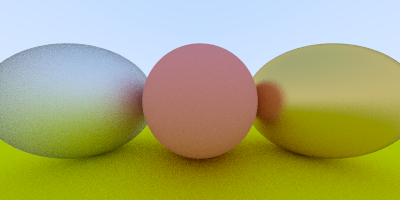
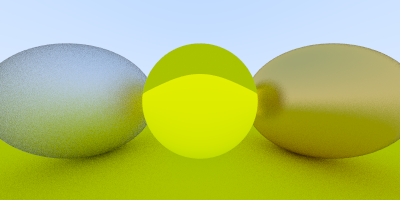
Added schlicking

diff --git a/src/matter.rs b/src/matter.rs
@@ -2,6 +2,7 @@ use crate::hitable::HitRecord;
 use crate::random_in_unit_sphere;
 use crate::ray::Ray;
 use crate::vec3::Vec3;
+use rand::Rng;
 
 #[derive(Copy, Clone)]
 pub enum Material {
@@ -35,6 +36,12 @@ fn refract(v: Vec3, n: Vec3, ni_over_nt: f32) -> (Vec3, bool) {
     }
 }
 
+fn schlick(cosine: f32, ref_idx: f32) -> f32 {
+    let mut r0 = (1. - ref_idx) / (1. + ref_idx);
+    r0 *= r0;
+    r0 + (1. - r0) * (1. - cosine).powf(5.)
+}
+
 fn scatter_lambertian(albedo: Vec3, _r_in: &Ray, rec: &HitRecord) -> (Vec3, Ray, bool) {
     let target = rec.p + rec.normal + random_in_unit_sphere();
     (albedo, Ray::new(rec.p, target - rec.p), true)
@@ -52,23 +59,40 @@ fn scatter_metal(albedo: Vec3, fuzz: f32, r_in: &Ray, rec: &HitRecord) -> (Vec3,
 }
 
 fn scatter_dielectric(ref_idx: f32, r_in: &Ray, rec: &HitRecord) -> (Vec3, Ray, bool) {
+    let mut rng = rand::thread_rng();
     let attenuation = Vec3::new(1.0, 1.0, 0.0);
     let reflected = reflect(r_in.direction(), rec.normal);
     let direction_dot_normal = Vec3::dot(r_in.direction(), rec.normal);
 
-    let (outward_normal, ni_over_nt) = if direction_dot_normal > 0. {
-        (-rec.normal, ref_idx)
+    let (outward_normal, ni_over_nt, cosine) = if direction_dot_normal > 0. {
+        (
+            -rec.normal,
+            ref_idx,
+            ref_idx * direction_dot_normal / r_in.direction().length(),
+        )
     } else {
-        (rec.normal, 1.0 / ref_idx)
+        (
+            rec.normal,
+            1.0 / ref_idx,
+            -direction_dot_normal / r_in.direction().length(),
+        )
     };
 
     let (refracted, did_refract) = refract(r_in.direction(), outward_normal, ni_over_nt);
 
-    let scattered = if did_refract {
-        Ray::new(rec.p, refracted)
+    let reflect_prob = if did_refract {
+        schlick(cosine, ref_idx)
     } else {
-        Ray::new(rec.p, reflected)
+        1.0
     };
 
-    (attenuation, scattered, did_refract)
+    let roll: f32 = rng.gen();
+
+    let scattered = if roll < reflect_prob {
+        Ray::new(rec.p, reflected)
+    } else {
+        Ray::new(rec.p, refracted)
+    };
+
+    (attenuation, scattered, true)
 }

diff --git a/src/main.rs b/src/main.rs
@@ -18,11 +18,7 @@ fn main() -> Result<(), std::io::Error> {
     let mut imgbuf = image::ImageBuffer::new(nx, ny);
 
     let world = vec![
-        hitable::Sphere::new(
-            Vec3::new(0.0, 0.0, -1.),
-            0.5,
-            Material::Lambertian(Vec3::new(0.8, 0.3, 0.3)),
-        ),
+        hitable::Sphere::new(Vec3::new(0.0, 0.0, -1.), 0.5, Material::Dielectric(1.5)),
         hitable::Sphere::new(
             Vec3::new(0.0, -100.5, -1.),
             100.,
@@ -33,7 +29,11 @@ fn main() -> Result<(), std::io::Error> {
             0.5,
             Material::Metal(Vec3::new(0.8, 0.6, 0.2), 0.3),
         ),
-        hitable::Sphere::new(Vec3::new(-1.0, 0.0, -1.0), 0.5, Material::Dielectric(1.5)),
+        hitable::Sphere::new(
+            Vec3::new(-1.0, 0.0, -1.0),
+            0.5,
+            Material::Metal(Vec3::new(0.8, 0.8, 0.8), 1.0),
+        ),
     ];
     let cam = camera::Camera::default();
 
